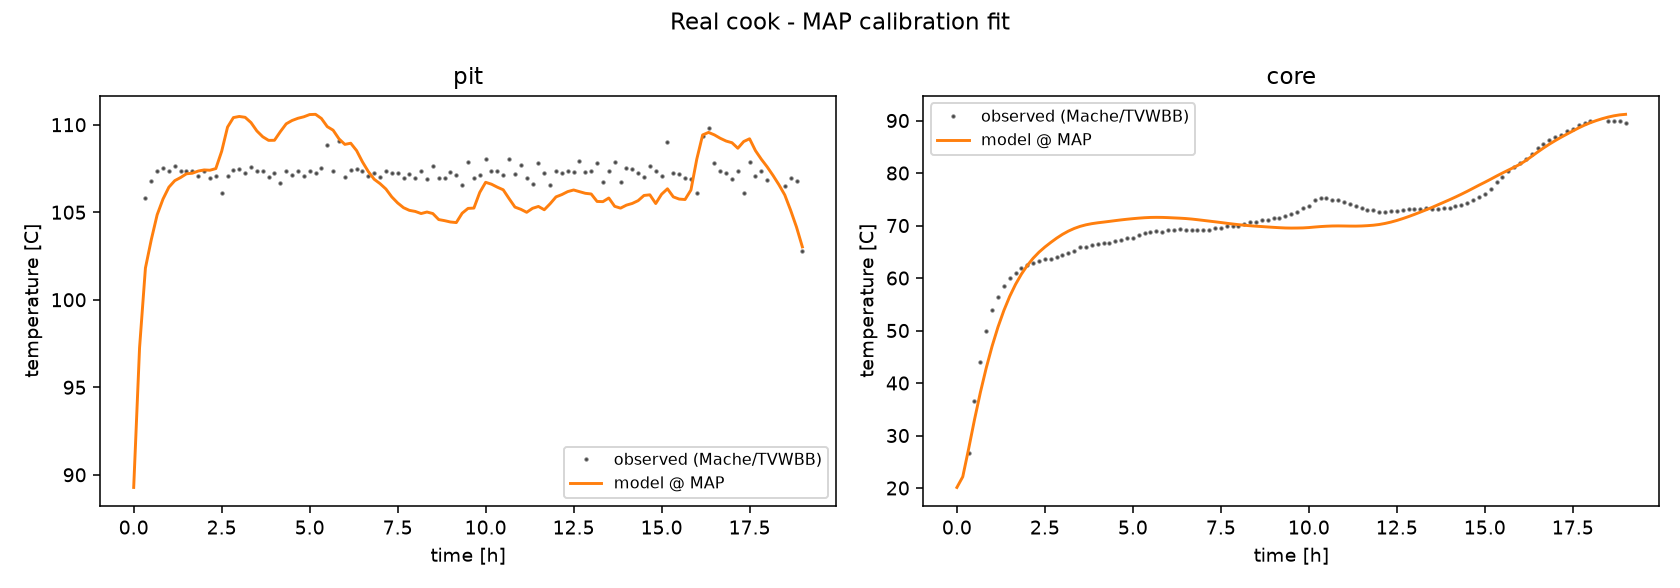
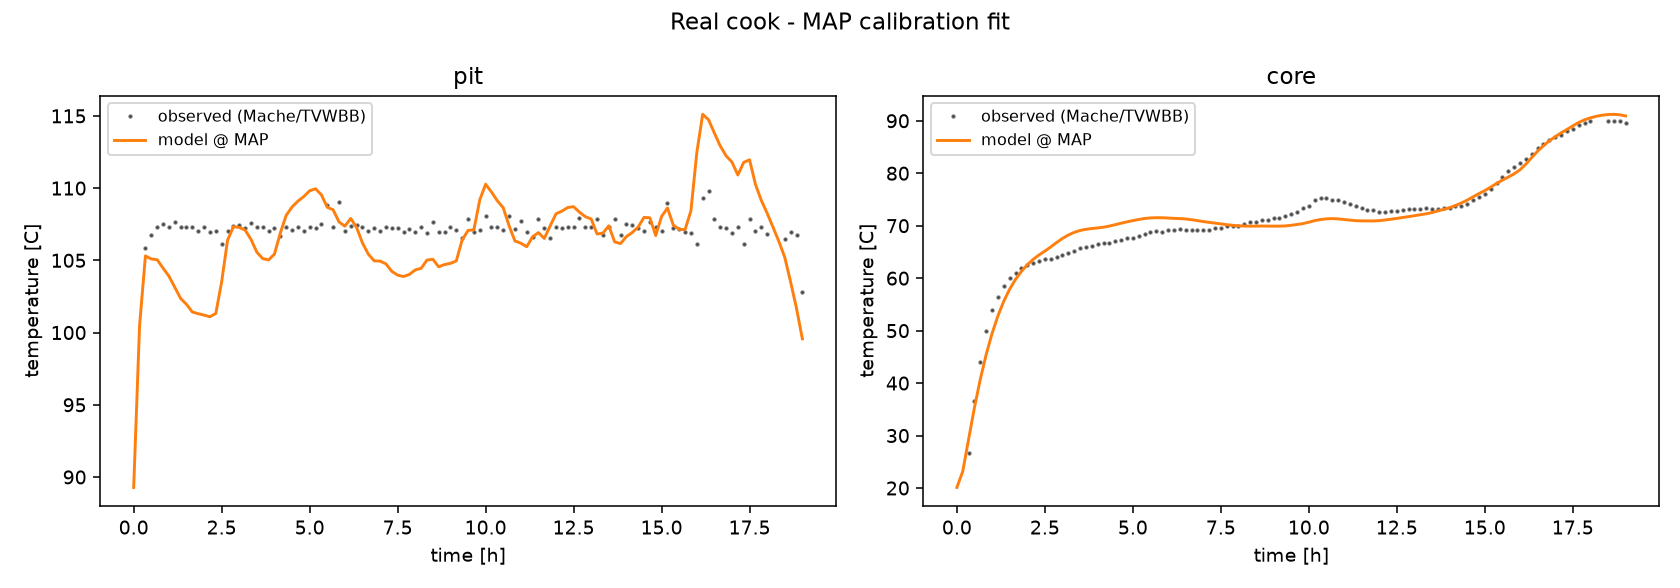
MAP-real refit with ignition model: best fit yet (roadmap item 3)
Warm-started 600-step SVI (--init flag added; cold start with 12 latents
found a worse optimum - documented). Loss 551 -> 516; sigma_pit 2.6 -> 2.1,
sigma_core 1.4 -> 0.88 (digitization floor). The early-cook pit overshoot
the ignition state targeted is gone; a0=0.73 (bed mostly lit after the
90-min warmup), k_spread 4.1e-4 1/s. Core fit unchanged-excellent.

diff --git a/scripts/run_map_real.py b/scripts/run_map_real.py
@@ -30,13 +30,20 @@ def main():
     ap = argparse.ArgumentParser()
     ap.add_argument("--steps", type=int, default=300)
     ap.add_argument("--lr", type=float, default=2e-2)
+    ap.add_argument("--init", type=str, default=None,
+                    help="JSON of parameter values to warm-start the guide")
     args = ap.parse_args()
 
     log = cooklog.load(dt_min=10.0)
     meat_tx, pit_tx = meat_client(), pit_client()
     m = calibrate.bound_model_real(log, meat_tx, pit_tx)
 
-    guide = AutoDelta(m)
+    if args.init:
+        init_vals = {k: float(v) for k, v in
+                     json.loads(Path(args.init).read_text()).items()}
+        guide = AutoDelta(m, init_loc_fn=numpyro.infer.init_to_value(values=init_vals))
+    else:
+        guide = AutoDelta(m)
     svi = SVI(m, guide, numpyro.optim.Adam(args.lr), Trace_ELBO())
     result = svi.run(jax.random.PRNGKey(0), args.steps, progress_bar=True)
     params = {k: float(np.asarray(v)) for k, v in guide.median(result.params).items()}

diff --git a/docs/roadmap.md b/docs/roadmap.md
@@ -14,8 +14,10 @@ dependency ordering that matters.
 2. ✅ **Juiciness output** — retained moisture at pull as a differentiable
    output (`w_retained`) + optional control-objective term (`w_juicy`).
    Julia 36/36, app suite 18/18; docs/diagram/README updated.
-3. **Re-run MAP-real** after (1)+(2) — minutes; refreshes `map_real.json` and
-   the fit figure.
+3. ✅ **Re-run MAP-real** — warm-started 600-step refinement: loss 551 → 516,
+   σ_pit 2.6 → 2.1, σ_core 1.4 → 0.88 (at the digitization floor); early-cook
+   overshoot resolved; a0 = 0.73, k_spread ≈ 4e-4 (physical). Cold-start
+   lesson: 12-latent SVI needs the warm start (`run_map_real.py --init`).
 4. **NUTS on the real cook** — the calibration capstone's posterior
    (`run_nuts.py --real`, checkpointed, needs plugged-in hours). ⚑ After (3).
    On completion: corner_real + predictive-band figures, writeup paragraph.
